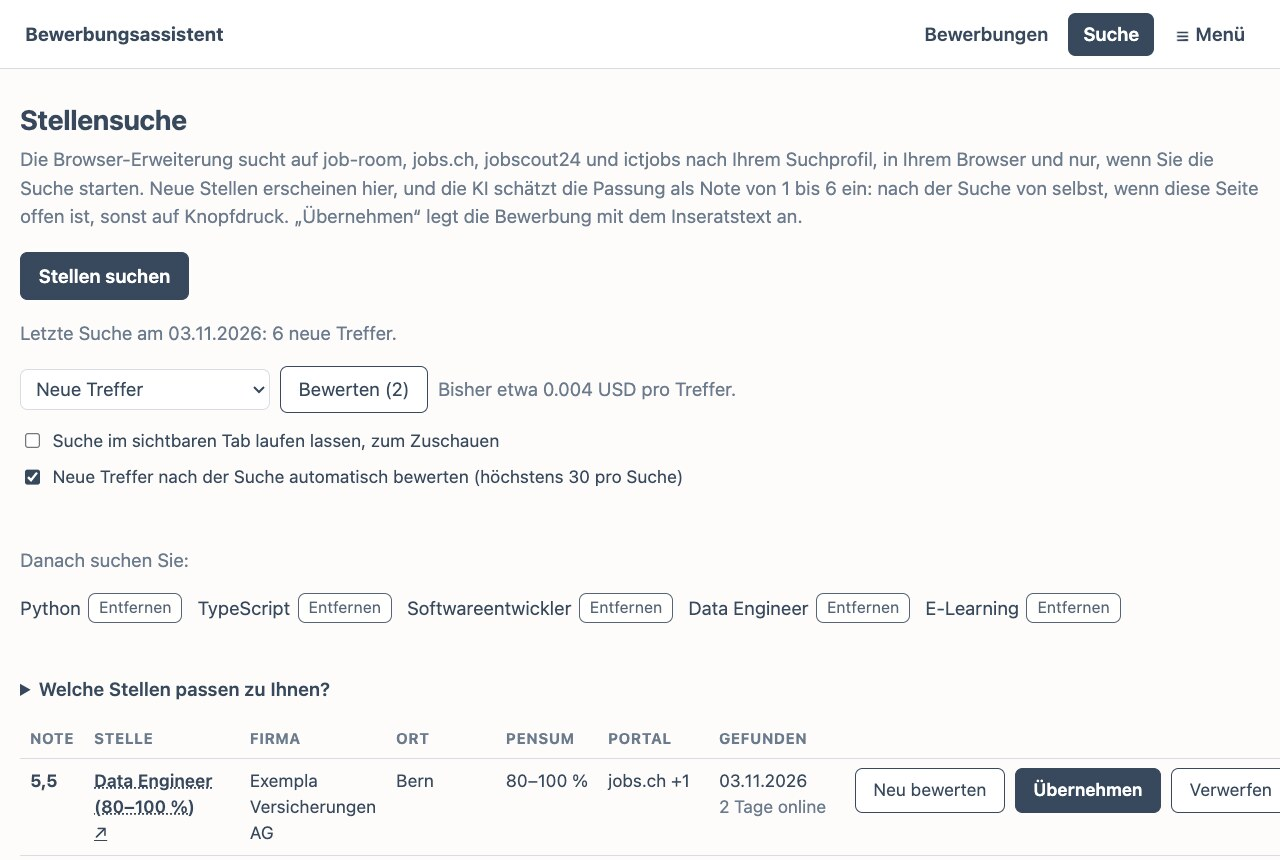
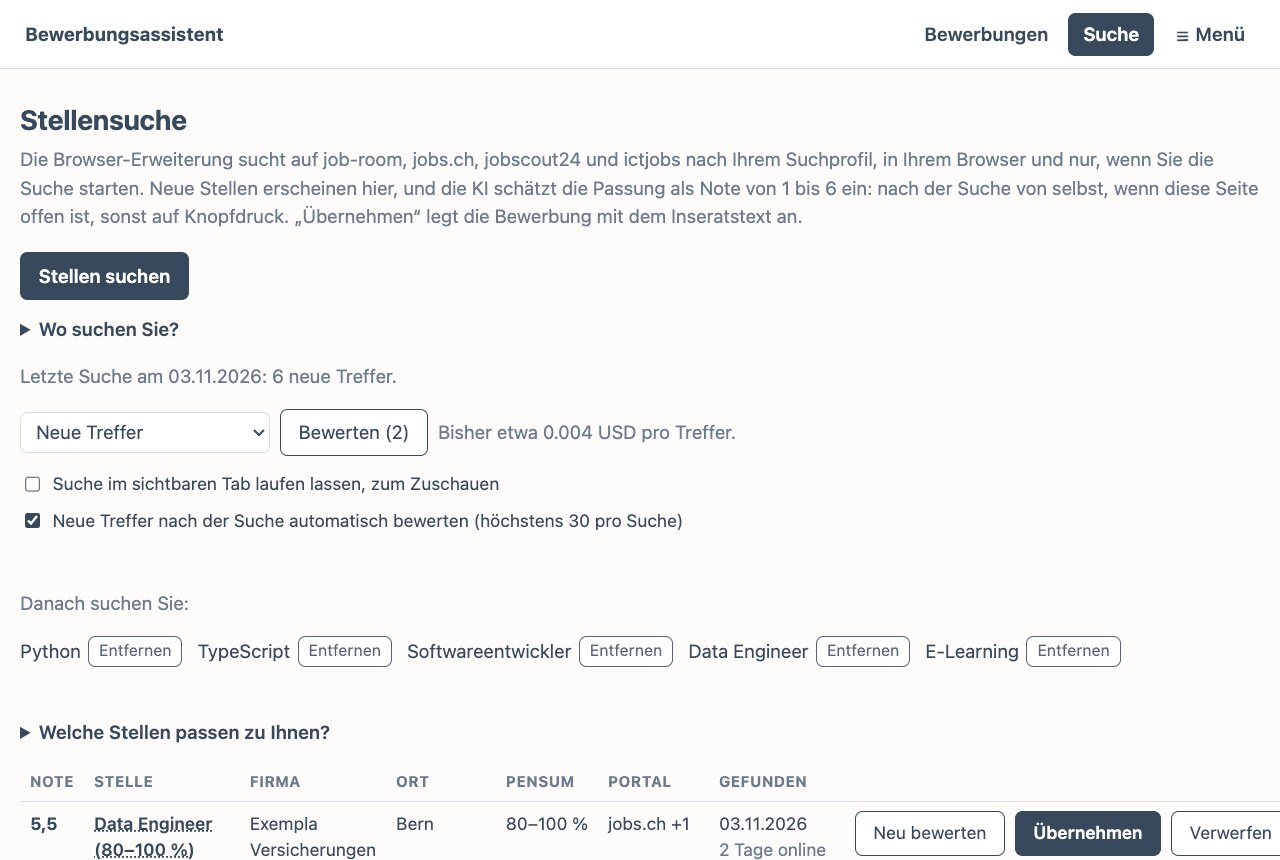
feat: let everybody choose the portals of the search (MIN-388)
A box per portal on the search page, under "Wo suchen Sie?". The choice goes to
the plan and to the list, and one portal must stay on. Until the first choice
the profile counts, and ictjobs stays off when no term fits computing: someone
in a craft finds nothing there.

Claude-Session: https://claude.ai/code/session_01WgFHS5MLF7RQbuiBw169Uz

diff --git a/bewerbungen/seiten/portal-wahl.js b/bewerbungen/seiten/portal-wahl.js
@@ -1,0 +1,30 @@
+"use strict";
+// Which portals the search uses (MIN-388): a box per portal, for everybody. Someone in a craft finds nothing on ictjobs.
+window.PortalWahl = (() => {
+  const { senden, el, status } = window.App;
+  const $ = id => document.getElementById(id);
+
+  function zeile(portal, wahl, neuLaden) {
+    const kasten = el("input", { type: "checkbox" });
+    kasten.checked = portal.an;
+    kasten.addEventListener("change", async () => {
+      const aus = wahl.filter(p => (p.name === portal.name ? !kasten.checked : !p.an)).map(p => p.name);
+      try {
+        await senden("/api/suche/einstellungen", { portale_aus: aus });
+        status($("portale-meldung"), "");
+        neuLaden();
+      } catch (fehler) {
+        kasten.checked = !kasten.checked;
+        status($("portale-meldung"), fehler.message, "hinweis");
+      }
+    });
+    return el("li", {}, el("label", { class: "auswahl" }, kasten, ` ${portal.name}`, el("span", { class: "leise" }, ` (${portal.hinweis})`)));
+  }
+
+  function zeige(wahl, lehrstelle, neuLaden) {
+    $("portale-titel").textContent = lehrstelle ? "Wo suchst du?" : "Wo suchen Sie?";
+    $("portale-liste").replaceChildren(...wahl.map(portal => zeile(portal, wahl, neuLaden)));
+  }
+
+  return { zeige };
+})();

diff --git a/bewerbungen/seiten/treffer.html b/bewerbungen/seiten/treffer.html
@@ -25,6 +25,11 @@
     <button type="button" id="suchen" class="haupt" disabled>Stellen suchen</button>
     <span id="lauf" class="status" role="status" aria-live="polite"></span>
   </div>
+  <details id="portale" class="portale">
+    <summary id="portale-titel">Wo suchen Sie?</summary>
+    <ul id="portale-liste" class="auswahl-liste"></ul>
+    <div id="portale-meldung" class="status" role="status" aria-live="polite"></div>
+  </details>
   <p id="angaben-offen" class="banner" hidden><span id="angaben-offen-text"></span><a href="/angaben#feld=uebernehmen">Zum Übernehmen</a></p>
   <p id="ohne-erweiterung" class="banner" hidden>Für die Suche braucht es die Browser-Erweiterung. <a id="erweiterung-link" href="/einrichtung#erweiterung">So richten Sie sie ein</a></p>
   <p id="letzte" class="leise"></p>
@@ -82,6 +87,7 @@
 <script src="/app.js"></script>
 <script src="/treffer-logik.js"></script>
 <script src="/beruf-vorschlag.js"></script>
+<script src="/portal-wahl.js"></script>
 <script src="/treffer.js"></script>
 </body>
 </html>

diff --git a/bewerbungen/seiten/treffer.js b/bewerbungen/seiten/treffer.js
@@ -271,6 +271,7 @@
       paket = daten.paket;
       grenze = daten.grenze;
       zeigeArt(daten.art, daten.portale || [], daten.angebote || []);
+      window.PortalWahl.zeige(daten.portale_wahl || [], lehrstelle, lade);
       window.Suchbegriffe.zeige(daten.art, daten.gesuchte_berufe || [], daten.gesuchte_schluessel || []);
       zeigeLetzteSuche(daten.letzte_suche, daten.hinweise || [], daten.hinweis_ziele || {});
       zeigeNichtUebernommen();

diff --git a/bewerbungen/seiten/stil.css b/bewerbungen/seiten/stil.css
@@ -158,3 +158,6 @@ ul.vorschlaege p { margin: 4px 0; }
 ul.suchliste { list-style: none; padding: 0; margin: 4px 0 8px; display: flex; flex-wrap: wrap; gap: 6px 12px; }
 ul.suchliste li { display: flex; align-items: center; gap: 6px; }
 button.klein { padding: 2px 8px; font-size: 0.85em; margin: 0; }
+.portale { margin: 8px 0; }
+.portale .auswahl-liste { margin-top: 6px; }
+.portale > summary { cursor: pointer; font-weight: 600; }

diff --git a/bewerbungen/search_plan.py b/bewerbungen/search_plan.py
@@ -17,6 +17,14 @@ import yaml
 PORTALS = ("job-room", "jobs.ch", "jobscout24", "ictjobs")
 APPRENTICESHIP_PORTALS = ("LENA", "yousty")
 ALL_PORTALS = PORTALS + APPRENTICESHIP_PORTALS
+PORTAL_HINTS = {"job-room": "Stellen der RAV, alle Berufe", "jobs.ch": "alle Berufe", "jobscout24": "alle Berufe",
+                "ictjobs": "nur Informatik", "LENA": "offizielle Lehrstellen der Kantone", "yousty": "Lehrstellen und Schnupperlehren"}
+SPECIALIST_PORTAL = "ictjobs"
+COMPUTING = re.compile(r"informati|software|entwickl|developer|programm|devops|cloud|netzwerk|system|admin|cyber|security"
+                       r"|\bit\b|\bict\b|\bki\b|\bai\b|data|daten|digital|applikation|web|frontend|backend|fullstack"
+                       r"|engineer|python|java|typescript|sql|linux|sap", re.IGNORECASE)
+NO_PORTAL_LEFT = "Mindestens ein Portal muss gewählt bleiben, sonst findet die Suche nichts."
+BAD_CHOICE = "Diese Auswahl der Portale geht nicht."
 KIND_JOB = "stelle"
 KIND_APPRENTICESHIP = "lehrstelle"
 CANTONS = ("AG", "AI", "AR", "BE", "BL", "BS", "FR", "GE", "GL", "GR", "JU", "LU", "NE", "NW", "OW", "SG", "SH",
@@ -105,6 +113,40 @@ class SearchPlan:
                 "lehrbeginn_jahre": list(self.start_years), "angebote": list(self.offers), "max_seiten": pages, "max_abfragen": MAX_QUERIES,
                 "max_alter_tage": MAX_AGE_DAYS, "max_texte": MAX_TEXTS, "hinweise": list(self.hints), "schweizweit": self.nationwide,
                 "hinweis_ziele": dict(self.hint_targets)}
+
+
+def _portals_of_kind(kind: str) -> tuple[str, ...]:
+    return APPRENTICESHIP_PORTALS if kind == KIND_APPRENTICESHIP else PORTALS
+
+
+def _off(plan: SearchPlan, switched_off: list[str] | None) -> frozenset[str]:
+    """The choice of the person; until there is one, the profile, and a specialist portal only if it can fit."""
+    if switched_off is not None:
+        return frozenset(switched_off)
+    unfit = plan.keywords and not any(COMPUTING.search(term) for term in (*plan.keywords, *plan.niche_keywords))
+    return frozenset(p for p in _portals_of_kind(plan.kind) if p not in plan.portals or (unfit and p == SPECIALIST_PORTAL))
+
+
+def chosen(plan: SearchPlan, switched_off: list[str] | None) -> SearchPlan:
+    """The plan with the portals the person wants (MIN-388); nothing about a portal that is off."""
+    off = _off(plan, switched_off)
+    targets = tuple(pair for pair in plan.hint_targets if pair[0].split(":")[0] not in off)
+    return dataclasses.replace(plan, portals=tuple(p for p in _portals_of_kind(plan.kind) if p not in off),
+                               hints=tuple(h for h in plan.hints if h.split(":")[0] not in off), hint_targets=targets)
+
+
+def portal_choice(plan: SearchPlan, switched_off: list[str] | None) -> list[dict]:
+    off = _off(plan, switched_off)
+    return [{"name": name, "hinweis": PORTAL_HINTS[name], "an": name not in off} for name in _portals_of_kind(plan.kind)]
+
+
+def checked_choice(switched_off, kind: str) -> list[str]:
+    """What may be stored as the portals that are off; ValueError with a message for the person if not."""
+    if not isinstance(switched_off, list) or any(p not in ALL_PORTALS for p in switched_off):
+        raise ValueError(BAD_CHOICE)
+    if all(p in switched_off for p in _portals_of_kind(kind)):
+        raise ValueError(NO_PORTAL_LEFT)
+    return list(dict.fromkeys(switched_off))
 
 
 def _sections(text: str) -> dict[str, list[str]]:

diff --git a/bewerbungen/tests/test_search_plan.py b/bewerbungen/tests/test_search_plan.py
@@ -100,6 +100,64 @@ def test_the_plan_limits_the_texts_per_portal():
     assert search_plan.parse(GENERATED).as_dict()["max_texte"] == search_plan.MAX_TEXTS
 
 
+def _with_terms(*terms: str) -> search_plan.SearchPlan:
+    return search_plan.SearchPlan(keywords=terms, portals=search_plan.PORTALS)
+
+
+@pytest.mark.parametrize("terms", [("Koch",), ("Schreiner EFZ", "Maler"), ("Pflegefachperson",)])
+def test_without_a_link_to_computing_ictjobs_starts_switched_off(terms):
+    assert "ictjobs" not in search_plan.chosen(_with_terms(*terms), None).portals
+
+
+@pytest.mark.parametrize("terms", [("Software Engineer",), ("Informatiker EFZ",), ("IT Support",), ("Data Analyst",),
+                                   ("Python",), ("ICT-Fachmann",), ("Applikationsentwickler",)])
+def test_with_a_link_to_computing_ictjobs_stays_on(terms):
+    assert "ictjobs" in search_plan.chosen(_with_terms(*terms), None).portals
+
+
+def test_the_choice_of_the_person_counts_more_than_any_default():
+    assert search_plan.chosen(_with_terms("Koch"), []).portals == search_plan.PORTALS
+    assert search_plan.chosen(_with_terms("Python"), ["jobs.ch"]).portals == ("job-room", "jobscout24", "ictjobs")
+
+
+def test_a_portal_off_in_the_profile_stays_off_until_the_person_chooses():
+    plan = search_plan.SearchPlan(keywords=("Python",), portals=("job-room",))
+    assert search_plan.chosen(plan, None).portals == ("job-room",)
+    assert "jobs.ch" in search_plan.chosen(plan, []).portals
+
+
+def test_a_portal_that_is_off_gives_no_hint():
+    plan = search_plan.parse(NO_REGION.replace("- Wohnort: Thun\n", "- Wohnort: Thun\n- Orte: Bern\n"), postal_code="3600")
+    current = search_plan.chosen(plan, ["ictjobs"])
+    assert not any(hint.startswith("ictjobs") for hint in current.hints)
+    assert not any(hint.startswith("ictjobs") for hint, _ in current.hint_targets)
+    assert any(hint.startswith("job-room") for hint in current.hints)
+
+
+def test_apprenticeships_choose_among_their_own_portals():
+    plan = search_plan.SearchPlan(keywords=("Koch EFZ",), kind=search_plan.KIND_APPRENTICESHIP, portals=search_plan.APPRENTICESHIP_PORTALS)
+    assert search_plan.chosen(plan, ["yousty", "jobs.ch"]).portals == ("LENA",)
+
+
+def test_the_portals_on_offer_are_named_for_the_person():
+    plan = _with_terms("Koch")
+    offer = search_plan.portal_choice(plan, None)
+    assert [item["name"] for item in offer] == list(search_plan.PORTALS)
+    assert {item["name"]: item["an"] for item in offer}["ictjobs"] is False
+    assert all(item["hinweis"] for item in offer)
+
+
+@pytest.mark.parametrize("off", [list(search_plan.PORTALS), ["unbekannt"], "jobs.ch", [1], None])
+def test_a_bad_choice_is_refused(off):
+    with pytest.raises(ValueError):
+        search_plan.checked_choice(off, search_plan.KIND_JOB)
+
+
+def test_one_portal_must_stay():
+    assert search_plan.checked_choice(["jobs.ch", "jobs.ch"], search_plan.KIND_JOB) == ["jobs.ch"]
+    assert search_plan.checked_choice(["LENA"], search_plan.KIND_APPRENTICESHIP) == ["LENA"]
+
+
 def test_a_missing_home_of_an_apprenticeship_names_the_field():
     profile = apprenticeship_template()
     text = "\n".join(line for line in profile.splitlines() if not line.startswith(("- Wohnort", "- Kantone")))

diff --git a/bewerbungen/routes_search.py b/bewerbungen/routes_search.py
@@ -15,7 +15,7 @@ from ai import connection, tasks
 from ai.errors import AnswerError
 from dateien import schreibe_atomar
 import routes_career
-from hits import TRIAL, Hits, company_key, is_near
+from hits import PORTALS_OFF, TRIAL, Hits, company_key, is_near
 from server import json_antwort, pflicht
 
 MAX_PROBLEM = 600
@@ -38,7 +38,8 @@ def _list(body, field: str = "treffer") -> list:
 
 def plan(k, parameter, body):
     store = _hits(k)
-    return json_antwort({"plan": {**search_plan.for_folder(k.daten).as_dict(), "zuschauen": store.settings()["zuschauen"],
+    current = search_plan.chosen(search_plan.for_folder(k.daten), store.settings()[PORTALS_OFF])
+    return json_antwort({"plan": {**current.as_dict(), "zuschauen": store.settings()["zuschauen"],
                                   "eigener_schluessel": connection.has_own_key(), "weitere_seiten": own_sites.active(store)}})
 
 
@@ -88,8 +89,12 @@ def overview(k, parameter, body):
     targets: dict[str, str] = {}
     homes: tuple[str, ...] = ()
     postal_codes: tuple[str, ...] = ()
+    off = store.settings()[PORTALS_OFF]
+    choice = search_plan.portal_choice(search_plan.SearchPlan(keywords=(), kind=kind, portals=portals), off)
     try:
-        current = search_plan.for_folder(k.daten)
+        profile = search_plan.for_folder(k.daten)
+        current = search_plan.chosen(profile, off)
+        choice = search_plan.portal_choice(profile, off)
         hints, portals, offers = list(current.hints), current.portals, current.offers
         targets, homes, postal_codes = dict(current.hint_targets), current.places, current.postal_codes
     except search_plan.ProfileGap as gap:
@@ -101,7 +106,7 @@ def overview(k, parameter, body):
                                       "nah": is_near(str(hit.get("ort", "")), homes, postal_codes)} for hit in found],
                          "hinweis_ziele": targets,
                          "angebote": list(offers), **routes_career.searched_now(k),
-                         "letzte_suche": store.last_run(), "hinweise": hints, "art": kind, "portale": list(portals),
+                         "letzte_suche": store.last_run(), "hinweise": hints, "art": kind, "portale": list(portals), "portale_wahl": choice,
                          "einstellungen": store.settings(), "paket": tasks.PACKAGE_SIZE, "grenze": MAX_RATED_PER_RUN})
 
 
@@ -176,6 +181,9 @@ def rate_package(k, parameter, body):
 
 
 def settings(k, parameter, body):
+    if isinstance(body, dict) and PORTALS_OFF in body:
+        wanted = search_plan.checked_choice(body[PORTALS_OFF], search_plan.kind_of_folder(k.daten))
+        return json_antwort(_hits(k).set_portals_off(wanted))
     if isinstance(body, dict) and isinstance(body.get("zuschauen"), bool):
         return json_antwort(_hits(k).set_watching(body["zuschauen"]))
     if not isinstance(body, dict) or not isinstance(body.get("auto_bewerten"), bool):

diff --git a/bewerbungen/tests/test_routes_search.py b/bewerbungen/tests/test_routes_search.py
@@ -9,6 +9,7 @@ import yaml
 import app
 import routes_ai
 import routes_search
+import search_plan
 from ai.connection import ACCESS_VARIABLE, KEY_VARIABLE, URL_VARIABLE
 from ai.errors import BUDGET_USED, AiError
 from test_ai_tasks import VORLAGEN, FakeClient, PackageClient, rating_entry
@@ -137,6 +138,24 @@ def test_discard_and_restore(search):
 
 def test_text_of_unknown_hit_is_404(search):
     assert get(search, "/api/suche/text", id="gibt-es-nicht")[0] == 404
+
+
+def test_the_person_chooses_the_portals_and_the_search_follows(search):
+    offer = listing(search)["portale_wahl"]
+    assert {item["name"] for item in offer} == set(search_plan.PORTALS)
+    status, saved = post(search, "/api/suche/einstellungen", {"portale_aus": ["ictjobs", "jobscout24"]})
+    assert status == 200 and saved["portale_aus"] == ["ictjobs", "jobscout24"]
+    assert listing(search)["portale"] == ["job-room", "jobs.ch"]
+    plan_now = json.loads(get(search, "/api/suche/plan")[2])["plan"]
+    assert plan_now["portale"] == ["job-room", "jobs.ch"]
+    assert post(search, "/api/suche/einstellungen", {"auto_bewerten": False})[0] == 200
+    assert listing(search)["einstellungen"]["portale_aus"] == ["ictjobs", "jobscout24"], "other settings leave it alone"
+
+
+def test_all_portals_off_is_refused_with_a_message(search):
+    status, answer = post(search, "/api/suche/einstellungen", {"portale_aus": list(search_plan.PORTALS)})
+    assert status == 400 and "Portal" in answer["fehler"]
+    assert listing(search)["einstellungen"]["portale_aus"] is None
 
 
 def test_overview_names_kind_and_portals_of_the_profile(search):

diff --git a/bewerbungen/hits.py b/bewerbungen/hits.py
@@ -22,6 +22,7 @@ HITS_FILE = "treffer.yaml"
 RUN_FILE = "letzte-suche.yaml"
 SETTINGS_FILE = "einstellungen.yaml"
 OWN_SITES = "weitere_seiten"
+PORTALS_OFF = "portale_aus"
 MAX_STARS = 5
 TEXTS = "texte"
 DOMAINS = {"job-room": "job-room.ch", "jobs.ch": "jobs.ch", "jobscout24": "jobscout24.ch", "ictjobs": "ictjobs.ch",
@@ -321,7 +322,8 @@ class Hits:
         stars = raw.get("beruf_sterne") if isinstance(raw.get("beruf_sterne"), dict) else {}
         clean = {str(k): v for k, v in stars.items() if type(v) is int and 1 <= v <= MAX_STARS}
         return {"auto_bewerten": raw.get("auto_bewerten") is not False, "zuschauen": raw.get("zuschauen") is True, "beruf_sterne": clean,
-                OWN_SITES: raw.get(OWN_SITES) if isinstance(raw.get(OWN_SITES), list) else []}
+                OWN_SITES: raw.get(OWN_SITES) if isinstance(raw.get(OWN_SITES), list) else [],
+                PORTALS_OFF: raw.get(PORTALS_OFF) if isinstance(raw.get(PORTALS_OFF), list) else None}
 
     def _save_settings(self, settings: dict) -> dict:
         schreibe_yaml(self.folder / SETTINGS_FILE, settings)
@@ -334,6 +336,10 @@ class Hits:
     def set_auto_rating(self, enabled: bool) -> dict:
         with _LOCK:
             return self._save_settings({**self.settings(), "auto_bewerten": enabled})
+
+    def set_portals_off(self, portals: list[str]) -> dict:
+        with _LOCK:
+            return self._save_settings({**self.settings(), PORTALS_OFF: portals})
 
     def set_watching(self, enabled: bool) -> dict:
         with _LOCK:

diff --git a/bewerbungen/app.py b/bewerbungen/app.py
@@ -49,6 +49,7 @@ SEITEN = {
     "/treffer.js": "treffer.js",
     "/treffer-logik.js": "treffer-logik.js",
     "/beruf-vorschlag.js": "beruf-vorschlag.js",
+    "/portal-wahl.js": "portal-wahl.js",
     "/angaben": "angaben.html",
     "/einstellungen": "einstellungen.html",
     "/einstellungen.js": "einstellungen.js",

diff --git a/bewerbungen/CLAUDE.md b/bewerbungen/CLAUDE.md
@@ -18,7 +18,7 @@ Verwaltung und lokale Oberfläche des Bewerbungsassistenten (MIN-261 Ablauf, MIN
 - `dateien.py` – atomar schreiben, Pfade auf den Datenordner beschränken.
 - `ai/` – KI-Aufgaben (MIN-334, MIN-338): `personal.py` (welche Werte persönlich sind, auch im Inserat gefunden), `pseudonym.py` (Platzhalter, Varianten, unabhängige Endkontrolle), `gateway.py` (einziger Weg zur API: maskieren, prüfen, senden, zurücksetzen, protokollieren), `tasks.py` (bewerten, entwerfen, prüfen, vorbefüllen; Letzteres aufgerufen aus `onboarding/prefill.py`), `form_help.py` (Felder in Formularen), `prompts.py` (aus den Skills), `connection.py` (eigener Schlüssel, Vermittlung oder `ANTHROPIC_API_KEY`), `own_key.py` (MIN-348: eigener Schlüssel, nur im Schlüsselbund, Fehler ohne den Schlüssel), `usage.py` (Kosten ohne Inhalte), `errors.py` (deutsche Meldungen). `routes_ai.py` hängt sie an die App; Tests ersetzen `routes_ai.new_client`.
 - `routes_own_key.py` – Seite „Erweiterte Einstellungen“ (MIN-348): Schlüssel speichern und entfernen, Kosten aus dem lokalen Protokoll. Keine Route gibt den Schlüssel zurück; die Erweiterung erreicht sie nicht.
-- `search_plan.py`, `hits.py`, `routes_search.py` – Stellen- und Lehrstellensuche über die Erweiterung (MIN-339, MIN-365): Suchplan aus `suchprofil.md`, Trefferliste in `suche/` des Datenordners (nicht im Register, nicht in Git), Sichten vor dem Volltext, Bewerten in Paketen über `routes_ai` (MIN-372; `seiten/treffer-logik.js` ohne DOM, Tests mit `node --test tests/*.test.cjs`), Übernehmen ins Register mit `stelle.md`. Die Erweiterung erreicht nur sichten, treffer, abschluss, plan, die zwei Routen von `routes_page.py` und die Routen von `routes_apply.py` und `routes_rav.py` ausser Auswahl und Zurücksetzen (Liste im Host `desktop/native_host.py`).
+- `search_plan.py`, `hits.py`, `routes_search.py` – Stellen- und Lehrstellensuche über die Erweiterung (MIN-339, MIN-365): Suchplan aus `suchprofil.md`, Trefferliste in `suche/` des Datenordners (nicht im Register, nicht in Git), Sichten vor dem Volltext, Bewerten in Paketen über `routes_ai` (MIN-372; `seiten/treffer-logik.js` ohne DOM, Tests mit `node --test tests/*.test.cjs`), Übernehmen ins Register mit `stelle.md`. Die Wahl der Portale (MIN-388, `seiten/portal-wahl.js`, `search_plan.chosen`) wirkt auf Plan und Liste; was das Suchprofil sagt, gilt nur bis zur ersten Wahl. Die Erweiterung erreicht nur sichten, treffer, abschluss, plan, die zwei Routen von `routes_page.py` und die Routen von `routes_apply.py` und `routes_rav.py` ausser Auswahl und Zurücksetzen (Liste im Host `desktop/native_host.py`).
 - `ai/career.py`, `routes_career.py`, `search_terms.py` – Was suchen (MIN-375), auf der Seite „Suche“ (`seiten/beruf-vorschlag.js`): die KI schlägt vor, bei Lehrstellen Namen mit EFZ oder EBA, bei Stellen kurze Suchbegriffe; gespeichert wird nur, was die Person aufnimmt. `search_terms.py` ändert genau die Stelle im Suchprofil, aus der die Suche liest (Berufe; Kernliste, sonst Suchrichtungen). Die Erweiterung erreicht die Routen nicht.
 - `own_sites.py`, `ai/site_list.py`, `routes_sites.py` – Weitere Seiten durchsuchen (MIN-348), nur mit eigenem Schlüssel: Liste der Adressen (`suche/einstellungen.yaml`, höchstens 5, nur https ohne Port und Anmeldedaten, keine internen Adressen, keine Portale mit eigener Anpassung). `read_list` schickt Seitentext und Linktexte an die KI, keine Adressen und keinen Lebenslauf; jede Anfrage hat neue Kennungen, zurück kommen nur bekannte, und nur Links auf derselben Seite zählen. Die Erweiterung erreicht nur `seite-lesen`.
 - `routes_page.py` – Inserat von der offenen Seite (MIN-345): prüfen ohne zu speichern, speichern mit Erkennung von Duplikaten; erreichbar über den Host der Erweiterung.

diff --git a/docs/installation.md b/docs/installation.md
@@ -68,7 +68,7 @@ Die Erweiterung steht dann in der Liste, und in der App erscheint von selbst „
 ## 3. Erste Schritte
 
 1. **Meine Angaben** (im Menü): Wählen Sie die Stellensuche und erfassen Sie Lebenslauf und Suchprofil. Vorhandene Unterlagen als PDF oder Word können Sie hochladen. Die KI macht daraus Vorschläge, und Sie prüfen jeden davon. Zum Schluss klicken Sie auf **Übernehmen**. Erst danach zählen Ihre Angaben für die Suche.
-2. **Suche**: Klicken Sie auf **Stellen suchen**. Die Erweiterung sucht auf den Portalen, in Ihrem Browser und nur, wenn Sie die Suche starten. Ohne gewählte Kantone sucht sie in der ganzen Schweiz; Stellen nahe Ihrem Wohnort stehen dann zuerst.
+2. **Suche**: Klicken Sie auf **Stellen suchen**. Die Erweiterung sucht auf den Portalen, in Ihrem Browser und nur, wenn Sie die Suche starten. Ohne gewählte Kantone sucht sie in der ganzen Schweiz; Stellen nahe Ihrem Wohnort stehen dann zuerst. Unter **Wo suchen Sie?** wählen Sie die Portale. Passen Ihre Begriffe nicht zur Informatik, ist ictjobs zu Beginn ausgeschaltet. Pro Portal holt ein Lauf höchstens 150 neue Inserate, der Rest kommt bei der nächsten Suche.
 3. **Bewerten** lässt die KI einschätzen, wie gut eine Stelle zu Ihnen passt. **Übernehmen** legt eine Bewerbung an, **Verwerfen** blendet den Treffer aus.
 
 Abgeschickt wird eine Bewerbung immer von Ihnen selbst.
@@ -81,7 +81,7 @@ Danach ist Folgendes anders:
 
 1. Unter **Meine Angaben** wählst du die **Lehrstellensuche**. Die Fragen führen dich durch alles, was es braucht.
 2. Weisst du noch nicht, welcher Beruf passt? Auf der Seite **Suche** kann dir die KI Berufe vorschlagen. Du entscheidest, welche du in deine Suche aufnimmst.
-3. Auf der Seite **Suche** wählst du, ob du Lehrstellen, Schnupperlehren oder beides suchst. Die Erweiterung sucht dann auf LENA (berufsberatung.ch) und yousty.
+3. Auf der Seite **Suche** wählst du, ob du Lehrstellen, Schnupperlehren oder beides suchst. Die Erweiterung sucht dann auf LENA (berufsberatung.ch) und yousty. Unter **Wo suchst du?** kannst du eines davon ausschalten.
 
 Deine Bewerbung schickst immer du selbst ab.
 
